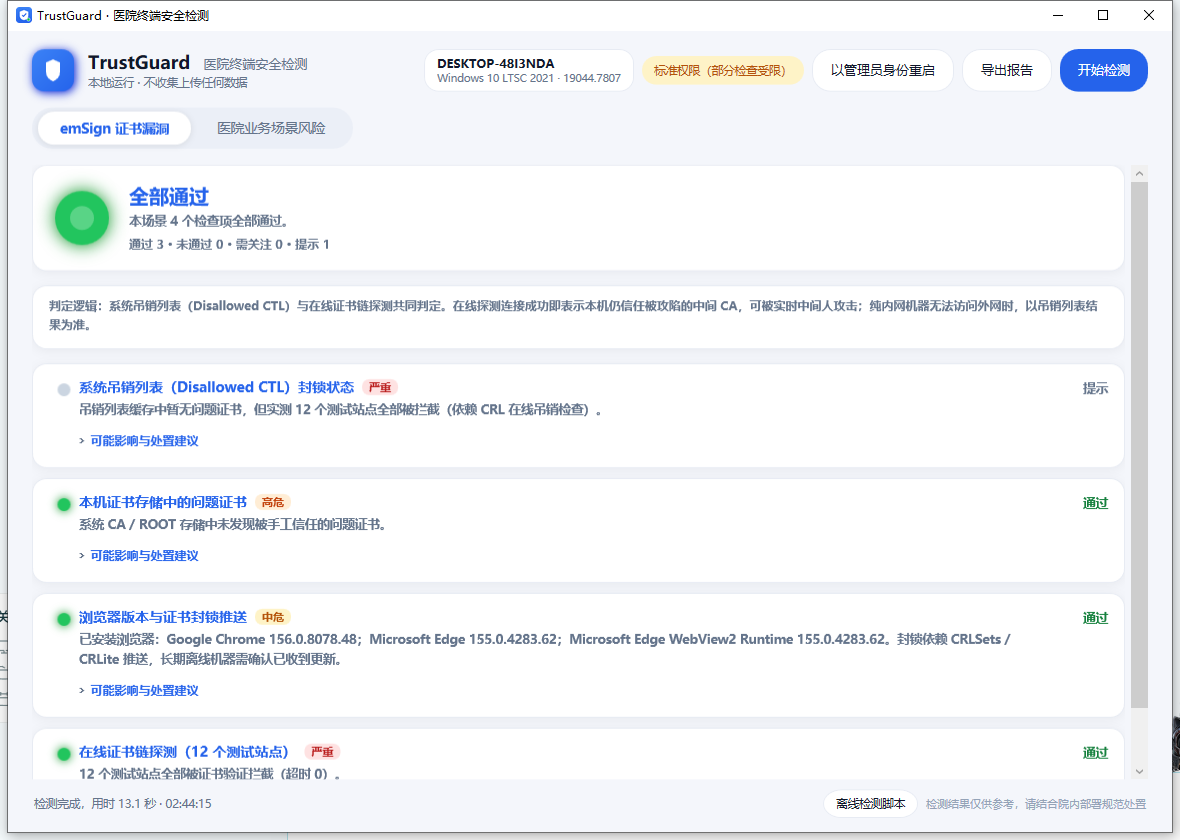
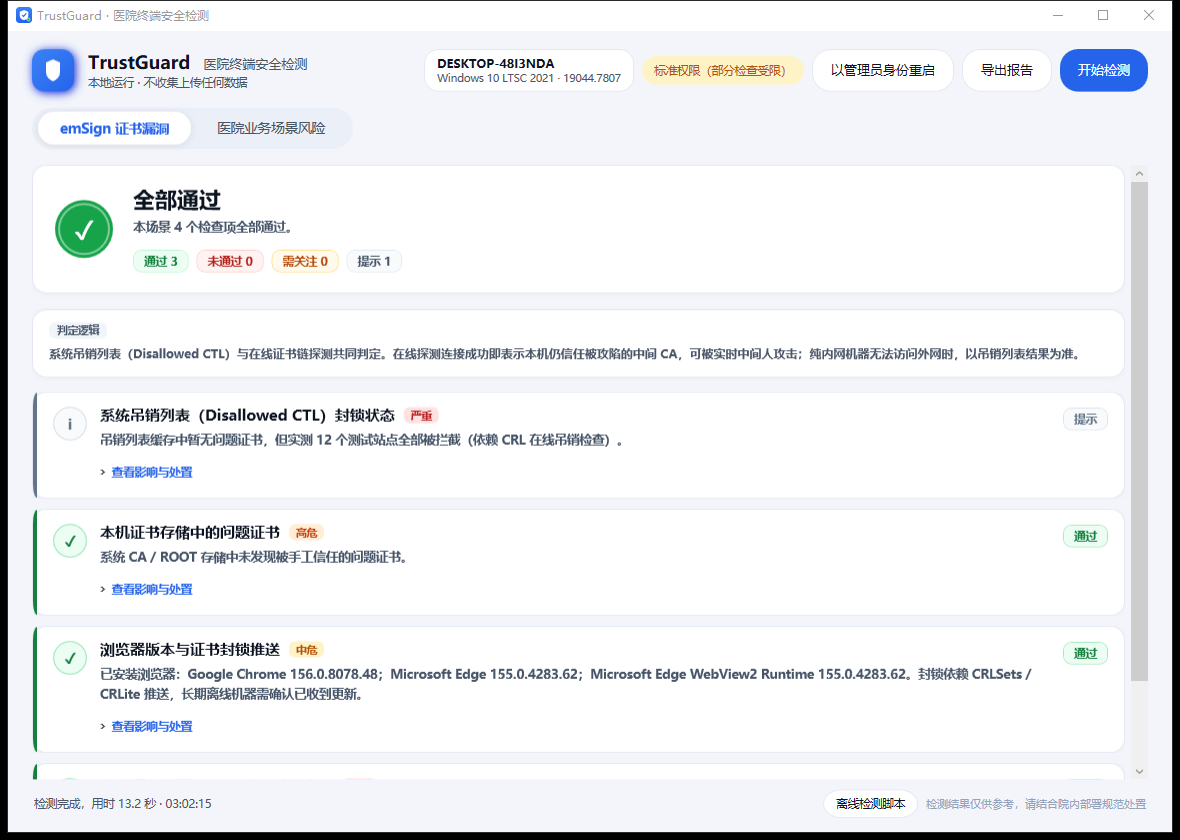
Refine TrustGuard UI: flat badges, clearer hierarchy
- Status lights become flat badges: tinted fill, 1.5px border, glyph (check /
  cross / exclamation / info) so pass/fail reads instantly instead of a blurry
  glow; plus a status-coloured strip on each card
- Verdict card: solid status disc with glyph, large title, count chips
- Impact and remediation now live in separate rounded panels with tinted
  backgrounds and small label tags; typography separated by size (15pt title,
  12.5pt body, 10.5pt labels)
- Category headers become small pill tags; contrast raised across body text
- Failed checks auto-expand their remediation panel

diff --git a/windows/TrustGuard/MainWindow.xaml b/windows/TrustGuard/MainWindow.xaml
@@ -11,79 +11,135 @@
     <Window.Resources>
         <!-- 检查项卡片 -->
         <DataTemplate x:Key="CheckRowTemplate">
-            <Border Style="{StaticResource Card}" Margin="0,0,0,10" Padding="16,14">
+            <Border Style="{StaticResource Card}" Margin="0,0,0,10" Padding="0" ClipToBounds="True">
                 <Grid>
                     <Grid.ColumnDefinitions>
-                        <ColumnDefinition Width="30"/>
+                        <ColumnDefinition Width="4"/>
                         <ColumnDefinition Width="*"/>
-                        <ColumnDefinition Width="80"/>
                     </Grid.ColumnDefinitions>
 
-                    <Ellipse Width="13" Height="13" Fill="{Binding LightBrush}" VerticalAlignment="Top" Margin="0,5,0,0">
-                        <Ellipse.Effect>
-                            <DropShadowEffect Color="{Binding LightGlow}" BlurRadius="14" ShadowDepth="0"/>
-                        </Ellipse.Effect>
-                    </Ellipse>
+                    <!-- flat status colour strip -->
+                    <Border Background="{Binding StatusBrush}" CornerRadius="13,0,0,13"/>
 
-                    <StackPanel Grid.Column="1" Margin="0,0,14,0">
-                        <WrapPanel>
-                            <TextBlock Text="{Binding Title}" FontWeight="SemiBold" FontSize="14" VerticalAlignment="Center"/>
-                            <Border Background="{Binding SeverityBackground}" CornerRadius="7" Padding="7,1" Margin="8,0,0,0" VerticalAlignment="Center">
-                                <TextBlock Text="{Binding SeverityText}" Foreground="{Binding SeverityBrush}" FontSize="11"/>
-                            </Border>
-                            <Border Background="{StaticResource ChipBrush}" CornerRadius="7" Padding="7,1" Margin="6,0,0,0" VerticalAlignment="Center"
-                                    Visibility="{Binding RelevanceText, Converter={StaticResource EmptyToCollapsed}}">
-                                <TextBlock Text="{Binding RelevanceText}" Foreground="{StaticResource SubTextBrush}" FontSize="11"/>
-                            </Border>
-                        </WrapPanel>
+                    <Grid Grid.Column="1" Margin="16,13,16,13">
+                        <Grid.ColumnDefinitions>
+                            <ColumnDefinition Width="Auto"/>
+                            <ColumnDefinition Width="*"/>
+                            <ColumnDefinition Width="Auto"/>
+                        </Grid.ColumnDefinitions>
 
-                        <TextBlock Text="{Binding Detail}" TextWrapping="Wrap" Foreground="{StaticResource SubTextBrush}"
-                                   FontSize="12.5" Margin="0,6,0,0" LineHeight="20"/>
+                        <!-- status badge: tinted fill + crisp 1.5px border + glyph -->
+                        <Border Width="34" Height="34" CornerRadius="17"
+                                Background="{Binding StatusBackground}" BorderBrush="{Binding StatusBorder}"
+                                BorderThickness="1.5" VerticalAlignment="Top" Margin="0,1,13,0">
+                            <TextBlock Text="{Binding StatusGlyph}" FontFamily="Segoe UI" FontSize="15" FontWeight="Bold"
+                                       Foreground="{Binding StatusBrush}" HorizontalAlignment="Center" VerticalAlignment="Center"/>
+                        </Border>
 
-                        <Expander Margin="0,6,0,0">
-                            <Expander.Header>
-                                <TextBlock Text="可能影响与处置建议" FontSize="12" Foreground="{StaticResource AccentBrush}"/>
-                            </Expander.Header>
-                            <StackPanel MaxWidth="820" HorizontalAlignment="Left">
-                                <TextBlock Text="可能影响" FontSize="11.5" FontWeight="SemiBold" Foreground="#334155"/>
-                                <TextBlock Text="{Binding Impact}" TextWrapping="Wrap" FontSize="12" Foreground="#475569"
-                                           Margin="0,2,0,8" LineHeight="19"/>
-                                <TextBlock Text="处置建议" FontSize="11.5" FontWeight="SemiBold" Foreground="#334155"/>
-                                <TextBlock Text="{Binding Fix}" TextWrapping="Wrap" FontSize="12" Foreground="#475569"
-                                           Margin="0,2,0,0" LineHeight="19"/>
-                            </StackPanel>
-                        </Expander>
-                    </StackPanel>
+                        <StackPanel Grid.Column="1" Margin="0,0,14,0">
+                            <WrapPanel>
+                                <TextBlock Text="{Binding Title}" FontSize="15" FontWeight="SemiBold"
+                                           Foreground="#0B1220" VerticalAlignment="Center"/>
+                                <Border Background="{Binding SeverityBackground}" BorderThickness="0"
+                                        CornerRadius="6" Padding="7,1.5" Margin="9,0,0,0" VerticalAlignment="Center">
+                                    <TextBlock Text="{Binding SeverityText}" Foreground="{Binding SeverityBrush}"
+                                               FontSize="10.5" FontWeight="Bold"/>
+                                </Border>
+                                <Border Background="#F1F5F9" CornerRadius="6" Padding="7,1.5" Margin="6,0,0,0" VerticalAlignment="Center"
+                                        Visibility="{Binding RelevanceText, Converter={StaticResource EmptyToCollapsed}}">
+                                    <TextBlock Text="{Binding RelevanceText}" Foreground="#64748B" FontSize="10.5"/>
+                                </Border>
+                            </WrapPanel>
 
-                    <TextBlock Grid.Column="2" Text="{Binding StatusText}" Foreground="{Binding StatusBrush}"
-                               FontWeight="SemiBold" FontSize="12.5" HorizontalAlignment="Right"
-                               VerticalAlignment="Top" Margin="0,2,0,0"/>
+                            <TextBlock Text="{Binding Detail}" TextWrapping="Wrap" Foreground="#475569" FontSize="12.5"
+                                       Margin="0,7,0,0" LineHeight="20"/>
+
+                            <Expander Margin="0,8,0,0" IsExpanded="{Binding IsFail, Mode=OneWay}">
+                                <Expander.Header>
+                                    <TextBlock Text="查看影响与处置" FontSize="11.5" FontWeight="SemiBold"
+                                               Foreground="{StaticResource AccentBrush}"/>
+                                </Expander.Header>
+                                <StackPanel HorizontalAlignment="Stretch" Margin="0,2,24,0">
+                                    <Border Background="#FFF9F3" BorderBrush="#F5DDC4" BorderThickness="1"
+                                            CornerRadius="10" Padding="12,10" Margin="0,0,0,8">
+                                        <StackPanel>
+                                            <Border Background="#FCE7CF" CornerRadius="6" Padding="8,1.5"
+                                                    HorizontalAlignment="Left" Margin="0,0,0,7">
+                                                <TextBlock Text="可能影响" FontSize="10.5" FontWeight="Bold" Foreground="#9A4A0B"/>
+                                            </Border>
+                                            <TextBlock Text="{Binding Impact}" TextWrapping="Wrap" FontSize="12.5"
+                                                       Foreground="#3D4452" LineHeight="20"/>
+                                        </StackPanel>
+                                    </Border>
+
+                                    <Border Background="#F4F8FF" BorderBrush="#D6E4FA" BorderThickness="1"
+                                            CornerRadius="10" Padding="12,10">
+                                        <StackPanel>
+                                            <Border Background="#DBE9FD" CornerRadius="6" Padding="8,1.5"
+                                                    HorizontalAlignment="Left" Margin="0,0,0,7">
+                                                <TextBlock Text="处置建议" FontSize="10.5" FontWeight="Bold" Foreground="#1D4ED8"/>
+                                            </Border>
+                                            <TextBlock Text="{Binding Fix}" TextWrapping="Wrap" FontSize="12.5"
+                                                       Foreground="#3D4452" LineHeight="20"/>
+                                        </StackPanel>
+                                    </Border>
+                                </StackPanel>
+                            </Expander>
+                        </StackPanel>
+
+                        <Border Grid.Column="2" Background="{Binding StatusBackground}" BorderBrush="{Binding StatusBorder}"
+                                BorderThickness="1" CornerRadius="8" Padding="10,3" VerticalAlignment="Top" Margin="0,2,0,0">
+                            <TextBlock Text="{Binding StatusText}" Foreground="{Binding StatusBrush}"
+                                       FontSize="11.5" FontWeight="Bold"/>
+                        </Border>
+                    </Grid>
                 </Grid>
             </Border>
         </DataTemplate>
 
         <!-- 结论卡 -->
         <DataTemplate x:Key="VerdictTemplate">
-            <Border Style="{StaticResource Card}" Padding="22,18" Margin="0,0,0,14">
+            <Border Style="{StaticResource Card}" Padding="22,20" Margin="0,0,0,16">
                 <Grid>
                     <Grid.ColumnDefinitions>
                         <ColumnDefinition Width="Auto"/>
                         <ColumnDefinition Width="*"/>
                     </Grid.ColumnDefinitions>
-                    <Grid Width="54" Height="54" Margin="0,0,20,0" VerticalAlignment="Center">
-                        <Ellipse Fill="{Binding Light}">
-                            <Ellipse.Effect>
-                                <DropShadowEffect Color="{Binding Glow}" BlurRadius="26" ShadowDepth="0"/>
-                            </Ellipse.Effect>
-                        </Ellipse>
-                        <Ellipse Width="24" Height="24" Fill="#40FFFFFF"/>
+
+                    <Grid Width="58" Height="58" Margin="0,0,20,0" VerticalAlignment="Center">
+                        <Ellipse Fill="{Binding Light}"/>
+                        <Ellipse Fill="Transparent" Stroke="#FFFFFF" StrokeThickness="2" Opacity="0.45" Margin="3"/>
+                        <TextBlock Text="{Binding Glyph}" FontFamily="Segoe UI" FontSize="26" FontWeight="Bold"
+                                   Foreground="White" HorizontalAlignment="Center" VerticalAlignment="Center"/>
                     </Grid>
+
                     <StackPanel Grid.Column="1" VerticalAlignment="Center">
-                        <TextBlock Text="{Binding Title}" FontSize="20" FontWeight="Bold"/>
-                        <TextBlock Text="{Binding Subtitle}" FontSize="12.5" Foreground="{StaticResource SubTextBrush}"
-                                   TextWrapping="Wrap" Margin="0,4,0,0"/>
-                        <TextBlock Text="{Binding CountsText}" FontSize="12" Foreground="{StaticResource SubTextBrush}"
-                                   Margin="0,8,0,0"/>
+                        <TextBlock Text="{Binding Title}" FontSize="22" FontWeight="Bold" Foreground="#0B1220"/>
+                        <TextBlock Text="{Binding Subtitle}" FontSize="12.5" Foreground="#475569"
+                                   TextWrapping="Wrap" Margin="0,5,0,0" LineHeight="20"/>
+
+                        <StackPanel Orientation="Horizontal" Margin="0,11,0,0">
+                            <Border Background="#ECFDF3" BorderBrush="#BBF7D0" BorderThickness="1" CornerRadius="8"
+                                    Padding="10,3" Margin="0,0,8,0">
+                                <TextBlock Text="{Binding PassCount, StringFormat=通过 {0}}" Foreground="#15803D"
+                                           FontSize="11.5" FontWeight="SemiBold"/>
+                            </Border>
+                            <Border Background="#FEF3F2" BorderBrush="#FECDCA" BorderThickness="1" CornerRadius="8"
+                                    Padding="10,3" Margin="0,0,8,0">
+                                <TextBlock Text="{Binding FailCount, StringFormat=未通过 {0}}" Foreground="#B42318"
+                                           FontSize="11.5" FontWeight="SemiBold"/>
+                            </Border>
+                            <Border Background="#FFFAEB" BorderBrush="#FEDF89" BorderThickness="1" CornerRadius="8"
+                                    Padding="10,3" Margin="0,0,8,0">
+                                <TextBlock Text="{Binding WarnCount, StringFormat=需关注 {0}}" Foreground="#B54708"
+                                           FontSize="11.5" FontWeight="SemiBold"/>
+                            </Border>
+                            <Border Background="#F8FAFC" BorderBrush="#E2E8F0" BorderThickness="1" CornerRadius="8"
+                                    Padding="10,3" Visibility="{Binding ShowInfo, Converter={StaticResource BoolToVis}}">
+                                <TextBlock Text="{Binding InfoCount, StringFormat=提示 {0}}" Foreground="#475569"
+                                           FontSize="11.5" FontWeight="SemiBold"/>
+                            </Border>
+                        </StackPanel>
                     </StackPanel>
                 </Grid>
             </Border>
@@ -178,9 +234,14 @@
                         <ContentControl Content="{Binding EmSignVerdict}" ContentTemplate="{StaticResource VerdictTemplate}"/>
 
                         <Border Style="{StaticResource Card}" Margin="0,0,0,14" Padding="16,12">
-                            <TextBlock TextWrapping="Wrap" FontSize="12" Foreground="{StaticResource SubTextBrush}" LineHeight="19">
-                                判定逻辑：系统吊销列表（Disallowed CTL）与在线证书链探测共同判定。在线探测连接成功即表示本机仍信任被攻陷的中间 CA，可被实时中间人攻击；纯内网机器无法访问外网时，以吊销列表结果为准。
-                            </TextBlock>
+                            <StackPanel>
+                                <Border Background="#F1F5F9" CornerRadius="6" Padding="8,1.5" HorizontalAlignment="Left" Margin="0,0,0,7">
+                                    <TextBlock Text="判定逻辑" FontSize="10.5" FontWeight="Bold" Foreground="#475569"/>
+                                </Border>
+                                <TextBlock TextWrapping="Wrap" FontSize="12" Foreground="#4A5568" LineHeight="19">
+                                    系统吊销列表（Disallowed CTL）与在线证书链探测共同判定。在线探测连接成功即表示本机仍信任被攻陷的中间 CA，可被实时中间人攻击；纯内网机器无法访问外网时，以吊销列表结果为准。
+                                </TextBlock>
+                            </StackPanel>
                         </Border>
 
                         <ItemsControl ItemsSource="{Binding EmSignChecks}" ItemTemplate="{StaticResource CheckRowTemplate}"/>
@@ -198,7 +259,9 @@
                                     <ColumnDefinition Width="Auto"/>
                                     <ColumnDefinition Width="*"/>
                                 </Grid.ColumnDefinitions>
-                                <TextBlock Text="使用场景" FontSize="12.5" VerticalAlignment="Center" Margin="0,0,10,0"/>
+                                <Border Background="#EEF3FE" CornerRadius="6" Padding="9,2" VerticalAlignment="Center" Margin="0,0,10,0">
+                                    <TextBlock Text="使用场景" FontSize="10.5" FontWeight="Bold" Foreground="#1D4ED8"/>
+                                </Border>
                                 <ComboBox Grid.Column="1" Style="{StaticResource ProfileCombo}"
                                           ItemsSource="{Binding Profiles}" SelectedItem="{Binding SelectedProfile}"
                                           DisplayMemberPath="Name" VerticalAlignment="Center"/>
@@ -214,10 +277,14 @@
                                 <GroupStyle>
                                     <GroupStyle.HeaderTemplate>
                                         <DataTemplate>
-                                            <StackPanel Orientation="Horizontal" Margin="2,10,0,8">
-                                                <Border Width="3" Height="13" CornerRadius="2" Background="{StaticResource AccentBrush}" Margin="0,0,8,0"/>
-                                                <TextBlock Text="{Binding Name}" FontSize="12.5" FontWeight="SemiBold" Foreground="#334155"/>
-                                            </StackPanel>
+                                            <Border Background="#E8EFFE" CornerRadius="8" Padding="10,2" HorizontalAlignment="Left"
+                                                    Margin="2,12,0,9">
+                                                <StackPanel Orientation="Horizontal">
+                                                    <Ellipse Width="5" Height="5" Fill="{StaticResource AccentBrush}"
+                                                             Margin="0,0,7,0" VerticalAlignment="Center"/>
+                                                    <TextBlock Text="{Binding Name}" FontSize="11.5" FontWeight="Bold" Foreground="#1D4ED8"/>
+                                                </StackPanel>
+                                            </Border>
                                         </DataTemplate>
                                     </GroupStyle.HeaderTemplate>
                                 </GroupStyle>

diff --git a/windows/TrustGuard/App.xaml b/windows/TrustGuard/App.xaml
@@ -6,13 +6,14 @@
         <ResourceDictionary>
 
             <conv:EmptyToCollapsed x:Key="EmptyToCollapsed"/>
+            <conv:BoolToVisibility x:Key="BoolToVis"/>
 
             <!-- palette -->
-            <SolidColorBrush x:Key="BgBrush" Color="#F4F6FB"/>
+            <SolidColorBrush x:Key="BgBrush" Color="#F3F5FA"/>
             <SolidColorBrush x:Key="CardBrush" Color="#FFFFFF"/>
-            <SolidColorBrush x:Key="BorderBrush" Color="#E7EBF3"/>
-            <SolidColorBrush x:Key="TextBrush" Color="#0F172A"/>
-            <SolidColorBrush x:Key="SubTextBrush" Color="#64748B"/>
+            <SolidColorBrush x:Key="BorderBrush" Color="#E3E8F0"/>
+            <SolidColorBrush x:Key="TextBrush" Color="#0B1220"/>
+            <SolidColorBrush x:Key="SubTextBrush" Color="#4B5563"/>
             <SolidColorBrush x:Key="AccentBrush" Color="#2563EB"/>
             <SolidColorBrush x:Key="AccentSoftBrush" Color="#E8EFFE"/>
             <SolidColorBrush x:Key="ChipBrush" Color="#F1F5F9"/>
@@ -28,7 +29,8 @@
                 <Setter Property="Padding" Value="18,16"/>
                 <Setter Property="Effect">
                     <Setter.Value>
-                        <DropShadowEffect BlurRadius="16" ShadowDepth="2" Direction="270" Opacity="0.05" Color="#0F172A"/>
+                        <!-- flat: a very light shadow only to separate the card from the canvas -->
+                        <DropShadowEffect BlurRadius="9" ShadowDepth="1" Direction="270" Opacity="0.035" Color="#0B1220"/>
                     </Setter.Value>
                 </Setter>
             </Style>

diff --git a/windows/TrustGuard/ViewModels/MainViewModel.cs b/windows/TrustGuard/ViewModels/MainViewModel.cs
@@ -16,6 +16,7 @@ public sealed class CheckVerdict : INotifyPropertyChanged
 {
     private string _title = "尚未检测";
     private string _subtitle = "点击「开始检测」运行本页检查项。";
+    private string _glyph = "·";
     private Brush _light = Frozen("#CBD5E1");
     private Color _glow = (Color)ColorConverter.ConvertFromString("#00FFFFFF")!;
 
@@ -27,8 +28,10 @@ public sealed class CheckVerdict : INotifyPropertyChanged
 
     public string Title { get => _title; private set => Set(ref _title, value); }
     public string Subtitle { get => _subtitle; private set => Set(ref _subtitle, value); }
+    public string Glyph { get => _glyph; private set => Set(ref _glyph, value); }
     public Brush Light { get => _light; private set => Set(ref _light, value); }
     public Color Glow { get => _glow; private set => Set(ref _glow, value); }
+    public bool ShowInfo => InfoCount > 0;
 
     public string CountsText => $"通过 {PassCount} · 未通过 {FailCount} · 需关注 {WarnCount}" +
                                 (InfoCount > 0 ? $" · 提示 {InfoCount}" : "");
@@ -46,25 +49,29 @@ public sealed class CheckVerdict : INotifyPropertyChanged
         {
             Title = "尚未检测";
             Subtitle = "点击「开始检测」运行本页检查项。";
+            Glyph = "·";
             SetLight("#CBD5E1", "#00FFFFFF");
         }
         else if (FailCount > 0)
         {
             Title = "存在风险";
             Subtitle = $"本场景 {RelevantCount} 个检查项中有 {FailCount} 项未通过，建议立即处置。";
-            SetLight("#EF4444", "#7AEF4444");
+            Glyph = "✕";
+            SetLight("#E5484D", "#00FFFFFF");
         }
         else if (WarnCount > 0)
         {
             Title = "部分项目需关注";
             Subtitle = $"未发现直接失陷项，但有 {WarnCount} 项配置偏弱，建议按处置建议加固。";
-            SetLight("#F59E0B", "#7AF59E0B");
+            Glyph = "!";
+            SetLight("#E08700", "#00FFFFFF");
         }
         else
         {
             Title = "全部通过";
             Subtitle = $"本场景 {RelevantCount} 个检查项全部通过。";
-            SetLight("#22C55E", "#7A22C55E");
+            Glyph = "✓";
+            SetLight("#16A34A", "#0016A34A");
         }
         OnPropertyChanged(nameof(CountsText));
         OnPropertyChanged(nameof(PassCount));
@@ -72,6 +79,7 @@ public sealed class CheckVerdict : INotifyPropertyChanged
         OnPropertyChanged(nameof(WarnCount));
         OnPropertyChanged(nameof(InfoCount));
         OnPropertyChanged(nameof(RelevantCount));
+        OnPropertyChanged(nameof(ShowInfo));
     }
 
     private void SetLight(string hex, string glowHex)

diff --git a/windows/TrustGuard/Models/CheckResult.cs b/windows/TrustGuard/Models/CheckResult.cs
@@ -50,11 +50,45 @@ public sealed class CheckResult : INotifyPropertyChanged
             OnPropertyChanged(nameof(StatusBrush));
             OnPropertyChanged(nameof(LightBrush));
             OnPropertyChanged(nameof(LightGlow));
+            OnPropertyChanged(nameof(StatusBackground));
+            OnPropertyChanged(nameof(StatusBorder));
+            OnPropertyChanged(nameof(StatusGlyph));
             OnPropertyChanged(nameof(IsProblem));
+            OnPropertyChanged(nameof(IsFail));
         }
     }
 
     public bool IsProblem => Status is CheckStatus.Fail or CheckStatus.Warn;
+
+    /// <summary>Failed rows open their impact/remediation panel automatically.</summary>
+    public bool IsFail => Status == CheckStatus.Fail;
+
+    /// <summary>Flat badge fill — a tint of the status colour, no glow.</summary>
+    public Brush StatusBackground => Status switch
+    {
+        CheckStatus.Pass => Frozen("#ECFDF3"),
+        CheckStatus.Fail => Frozen("#FEF3F2"),
+        CheckStatus.Warn => Frozen("#FFFAEB"),
+        _ => Frozen("#F8FAFC")
+    };
+
+    public Brush StatusBorder => Status switch
+    {
+        CheckStatus.Pass => Frozen("#A6E9C0"),
+        CheckStatus.Fail => Frozen("#F5B5AF"),
+        CheckStatus.Warn => Frozen("#F2D48A"),
+        _ => Frozen("#DCE3EC")
+    };
+
+    public string StatusGlyph => Status switch
+    {
+        CheckStatus.Pass => "✓",
+        CheckStatus.Fail => "✕",
+        CheckStatus.Warn => "!",
+        CheckStatus.Info => "i",
+        CheckStatus.Running => "…",
+        _ => "·"
+    };
 
     public string StatusText => Status switch
     {

diff --git a/windows/TrustGuard/Converters/EmptyToCollapsed.cs b/windows/TrustGuard/Converters/EmptyToCollapsed.cs
@@ -13,3 +13,13 @@ public sealed class EmptyToCollapsed : IValueConverter
     public object ConvertBack(object? value, Type targetType, object? parameter, CultureInfo culture)
         => throw new NotSupportedException();
 }
+
+/// <summary>True → Visible, false → Collapsed (used for optional summary chips).</summary>
+public sealed class BoolToVisibility : IValueConverter
+{
+    public object Convert(object? value, Type targetType, object? parameter, CultureInfo culture)
+        => value is true ? Visibility.Visible : Visibility.Collapsed;
+
+    public object ConvertBack(object? value, Type targetType, object? parameter, CultureInfo culture)
+        => throw new NotSupportedException();
+}
